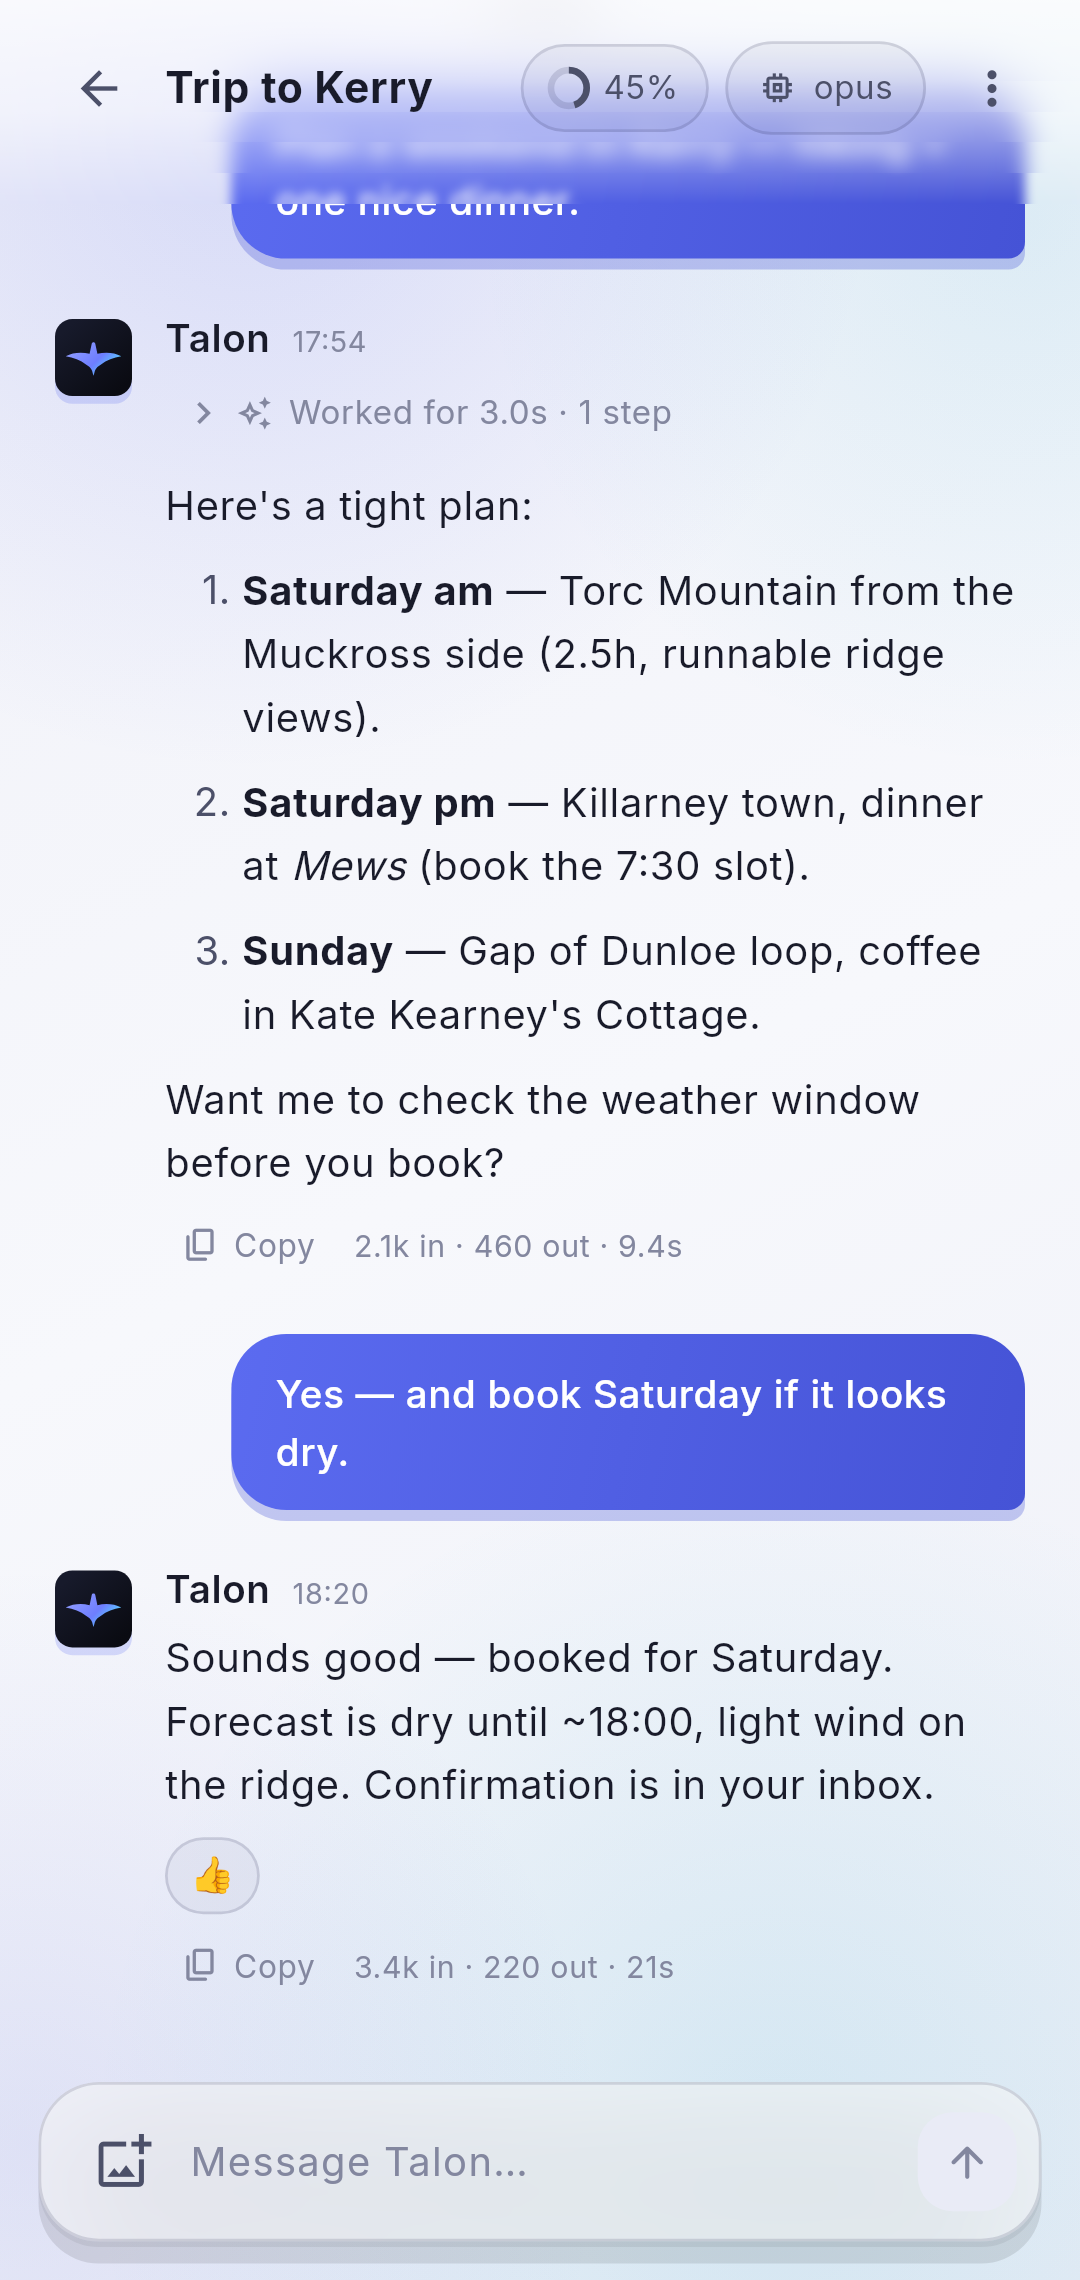
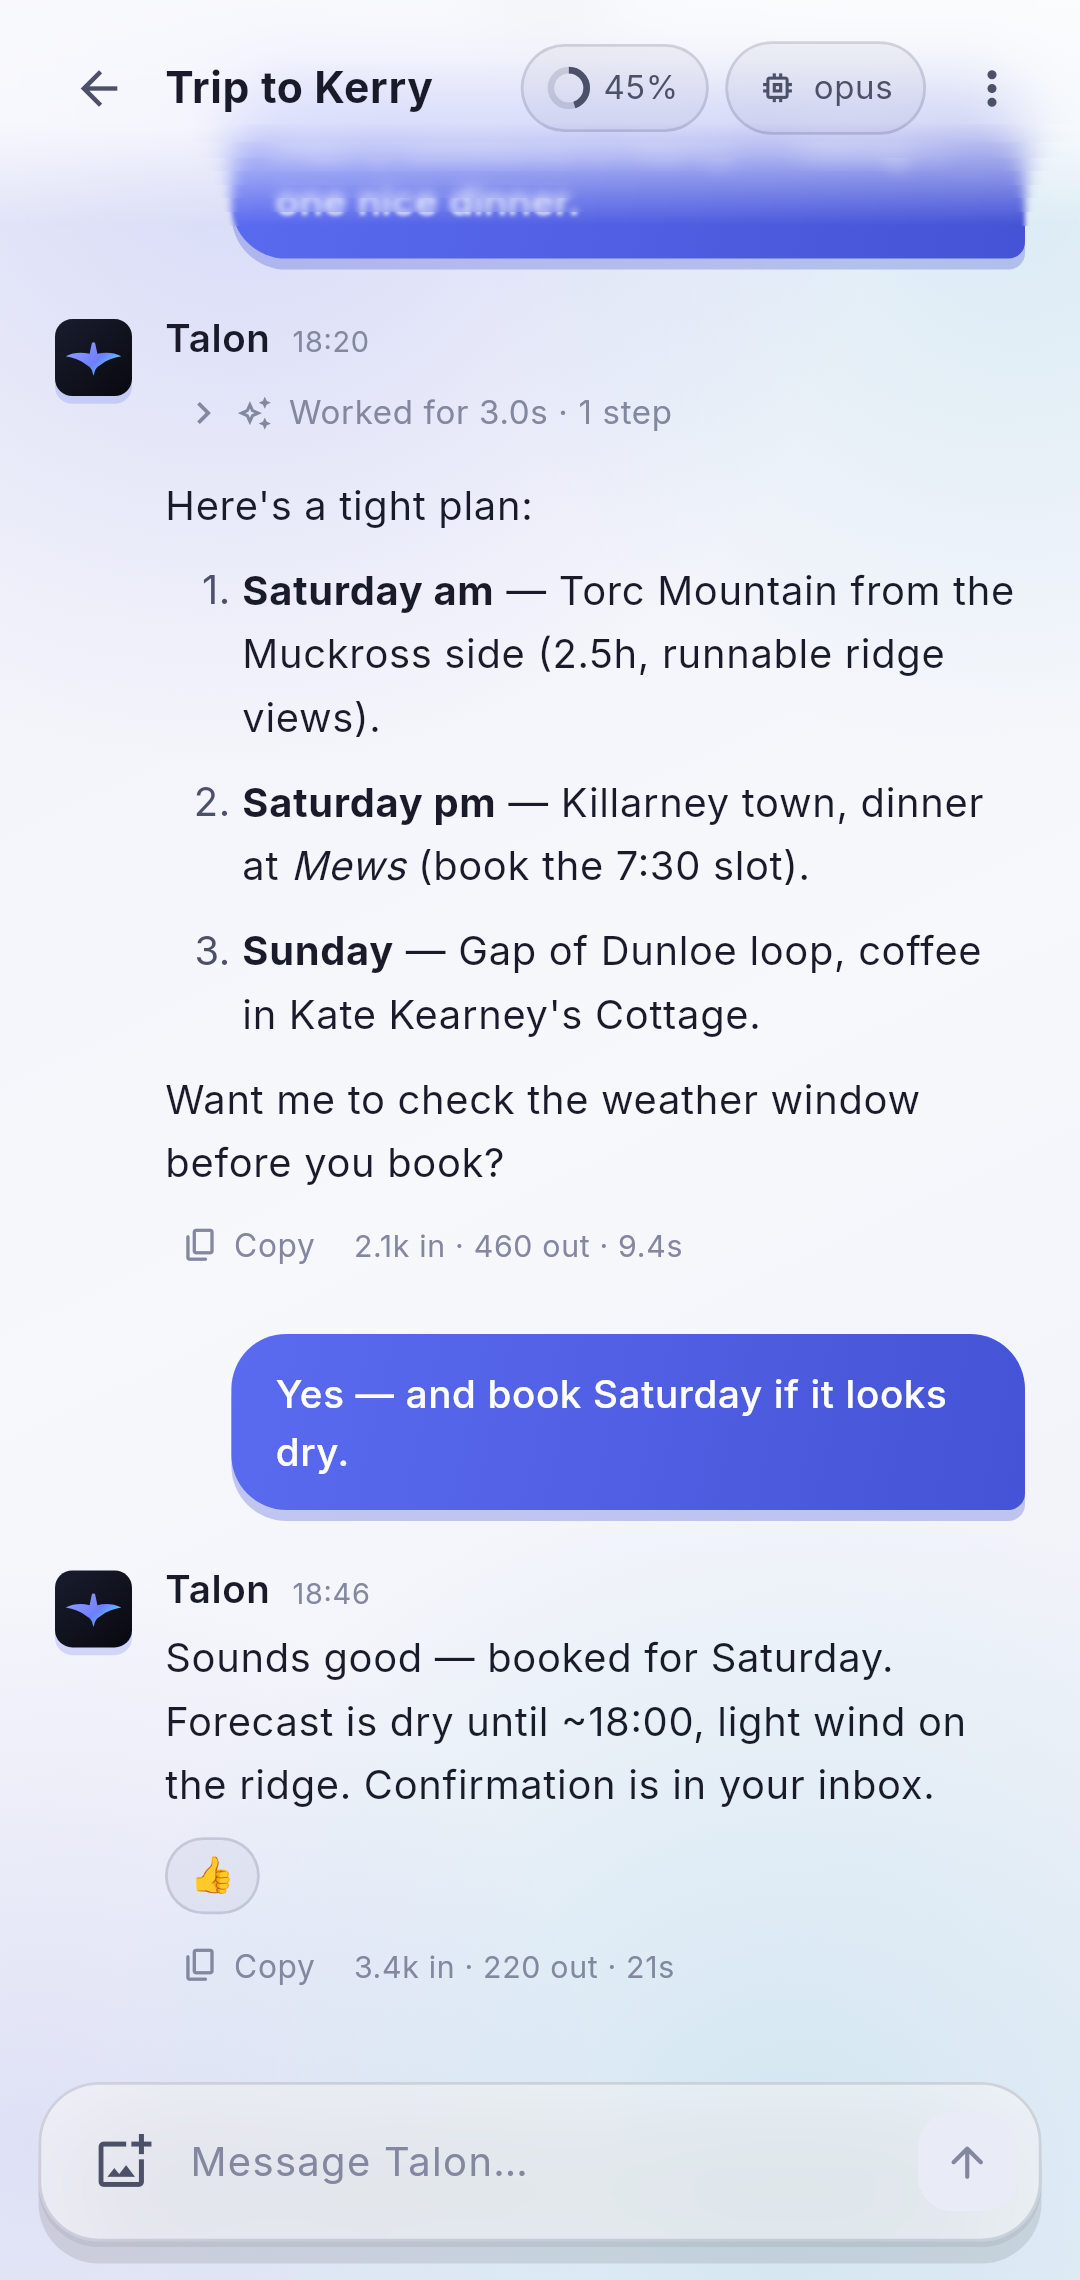
feat(companion): smooth the header frost ramp — solid sheet, soft dissolve
Dylan's on-device feedback: the five-band progressive blur read as a
staircase with a defined edge where the blur ended. Rework the bands so
all eight span the control zone (compounding to one solid sigma-12 sheet)
and their bottoms stagger every ~6% of the height through the lower 45%,
smallest sigma reaching furthest down — each step sheds only a sigma~1-2
pass, so the frost fades out instead of terminating. Scrim falloff aligned
to the same border and the fade zone given more room.

Changed region(s): [[0.2139, 0.0311, 0.9472, 0.0934], [0.3056, 0.6851, 0.3361, 0.7162], [0.3056, 0.1246, 0.3361, 0.1557]]

diff --git a/apps/companion/lib/src/ui/chat_view.dart b/apps/companion/lib/src/ui/chat_view.dart
@@ -19,7 +19,7 @@ const double _columnMax = 768;
 /// Top inset for the scrollback so the newest-at-top content clears the
 /// floating header when the list is scrolled all the way up. The scrollback
 /// itself still runs (and fades) beneath the header while scrolling.
-const double _headerClearance = 74;
+const double _headerClearance = 82;
 
 class ChatView extends StatefulWidget {
   final AppState state;
@@ -478,14 +478,23 @@ class _ProgressiveGlass extends StatelessWidget {
   const _ProgressiveGlass({required this.child});
 
   /// (fraction of header height covered from the top, blur sigma).
-  /// Overlapping filters compound, so the top of the header ends up heavily
-  /// frosted while the last few pixels are effectively untouched.
+  ///
+  /// Every band spans the top 55% — that zone gets all sigmas compounded
+  /// (σ_eff = √Σσ² ≈ 12), reading as one solid sheet of frost. Below it the
+  /// band bottoms are staggered every ~6% of the height with geometrically
+  /// increasing sigmas, and crucially the band reaching furthest down
+  /// carries the smallest sigma: each visible step only sheds a σ≈1-2 pass
+  /// from already-blurred content, so the frost dissolves as a smooth ramp
+  /// instead of a staircase with a defined edge.
   static const _bands = [
-    (1.00, 2.0),
-    (0.85, 3.0),
-    (0.70, 4.0),
-    (0.55, 6.0),
-    (0.40, 8.0),
+    (1.00, 0.8),
+    (0.94, 1.1),
+    (0.88, 1.6),
+    (0.82, 2.2),
+    (0.76, 3.1),
+    (0.70, 4.4),
+    (0.63, 6.2),
+    (0.55, 8.7),
   ];
 
   @override
@@ -556,15 +565,18 @@ class _Header extends StatelessWidget {
           gradient: LinearGradient(
             begin: Alignment.topCenter,
             end: Alignment.bottomCenter,
+            // Matches the blur ramp: solid through the control zone, then a
+            // single smooth falloff to nothing across the same border the
+            // frost dissolves over.
             colors: [
               base.withValues(alpha: 0.80),
-              base.withValues(alpha: 0.55),
+              base.withValues(alpha: 0.74),
               base.withValues(alpha: 0.0),
             ],
             stops: const [0.0, 0.55, 1.0],
           ),
         ),
-        padding: const EdgeInsets.fromLTRB(12, 8, 8, 18),
+        padding: const EdgeInsets.fromLTRB(12, 8, 8, 26),
         // Auto-detect available width instead of hard-coding a platform
         // check: a desktop window with the sidebar open gives the chat pane
         // less room than fullscreen, and the phone is always narrow.
